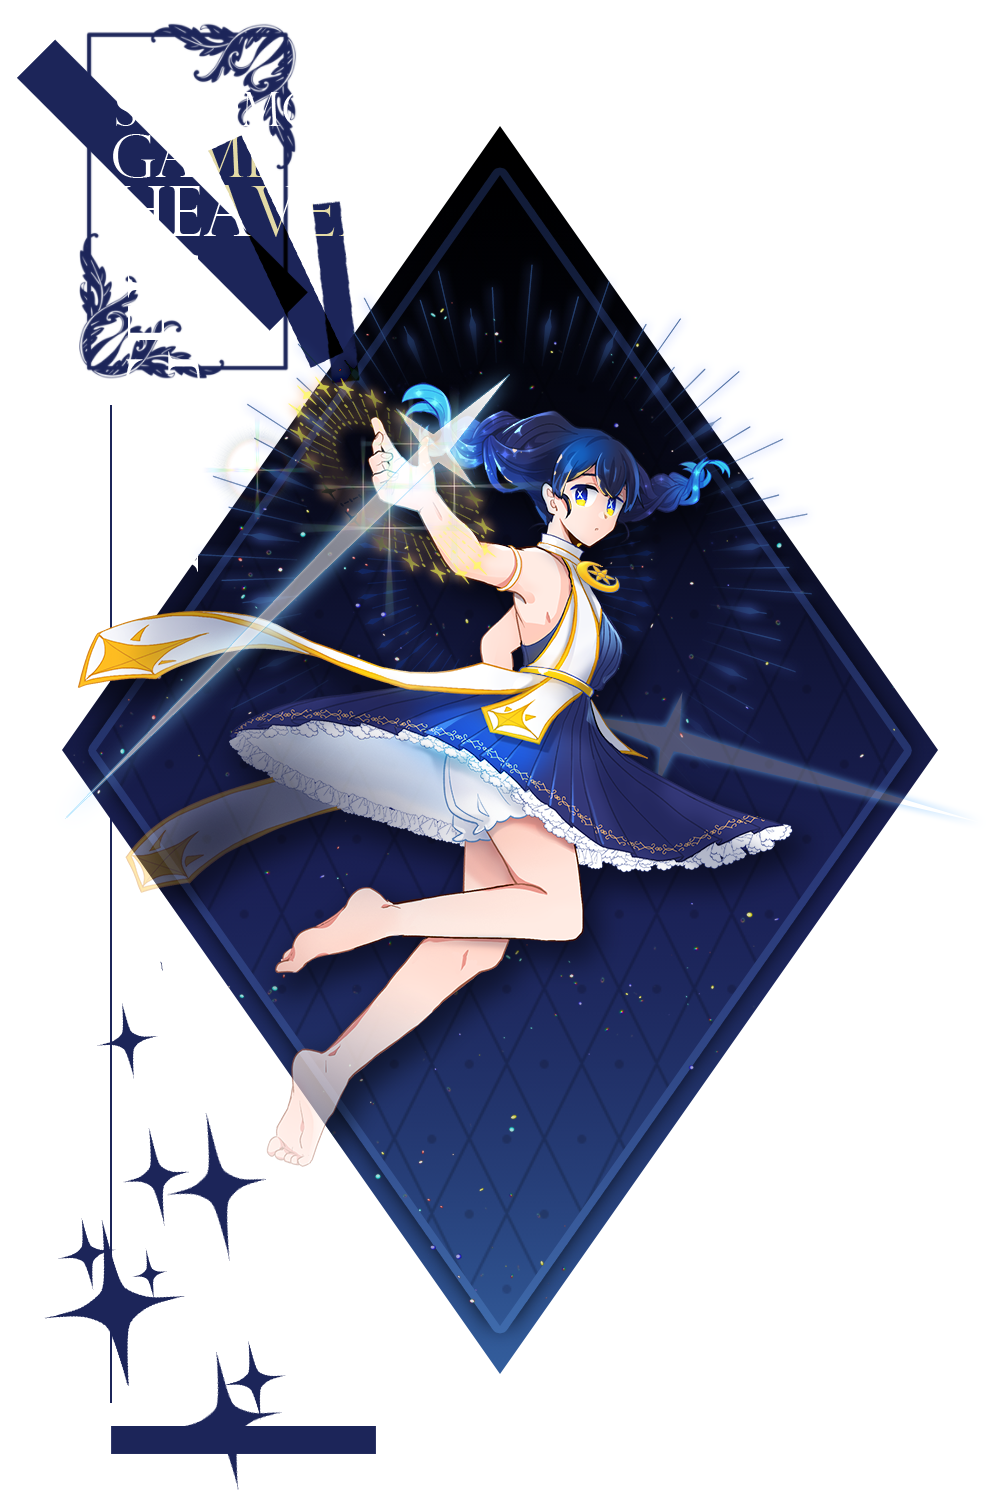
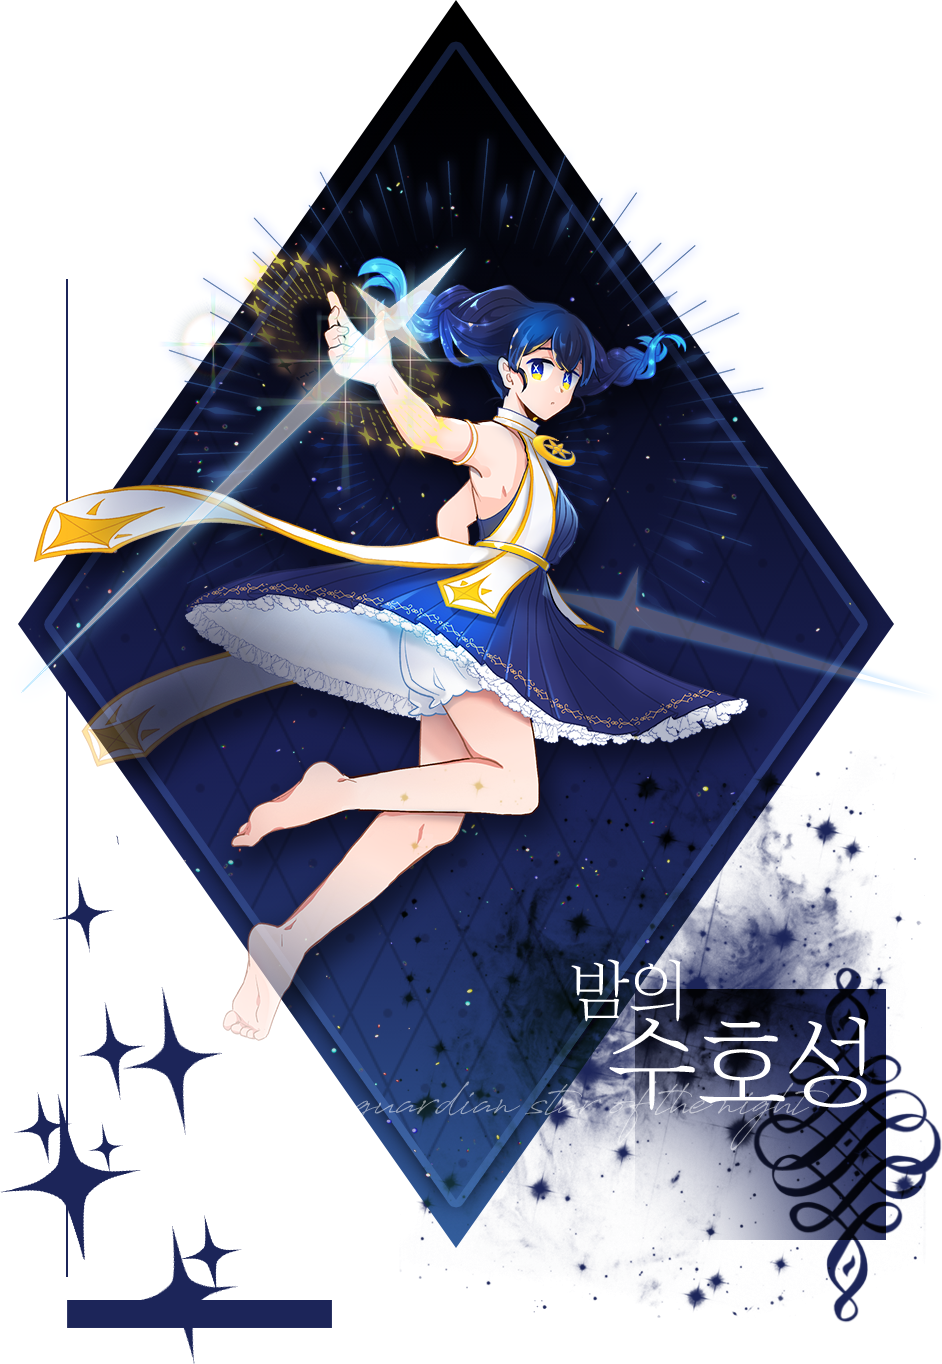
[Feat] 솔로몬 페이지 작업 완료

diff --git a/solomon/index.html b/solomon/index.html
@@ -1,0 +1,68 @@
+<!DOCTYPE html>
+<html lang="en">
+<head>
+    <meta charset="UTF-8">
+    <title>가막미르 10주년 합작 - 가막미르</title>
+    <link rel="stylesheet" href="../static/css/reset.css">
+    <link rel="stylesheet" href="../static/css/layout.css">
+    <link rel="stylesheet" href="../static/css/contents.css">
+    <script
+            src="https://code.jquery.com/jquery-3.7.1.slim.js"
+            integrity="sha256-UgvvN8vBkgO0luPSUl2s8TIlOSYRoGFAX4jlCIm9Adc="
+            crossorigin="anonymous"></script>
+    <script src="https://cdnjs.cloudflare.com/ajax/libs/gsap/3.12.2/gsap.min.js"></script>
+    <script src="https://cdnjs.cloudflare.com/ajax/libs/gsap/3.11.3/ScrollTrigger.min.js"></script>
+    <script src="../static/lib/fullpage.js/vendors/easings.js"></script>
+    <script src="../static/js/bg.js"></script>
+    <script src="../static/js/common.js"></script>
+</head>
+<body>
+<div id="container" class="solomon">
+    <div class="btnArea">
+        <button type="button" class="btn back" onclick="pageBack();"></button>
+        <button type="button" class="btn top" onclick="goTop();"></button>
+    </div>
+    <div class="bgArea">
+        <div class="overlay"></div>
+        <div class="layerWrap">
+        </div>
+    </div>
+    <main>
+        <h1>솔로몬의 천국</h1>
+        <div id="imageList">
+            <section>
+                <div class="character" id="evening">
+                    <div class="main"><img src="../static/images/evening/main.png" alt=""></div>
+                    <div class="name"><img src="../static/images/evening/name.png" alt=""></div>
+                    <div class="title"><img src="../static/images/evening/title.png" alt=""></div>
+                </div>
+            </section>
+        </div>
+    </main>
+</div>
+<script>
+    gsap.registerPlugin(ScrollTrigger);
+    gsap.to('.character', {
+        scrollTrigger:{
+            trigger:'#evening',
+            start: "0% 50%",//시작 지점
+            end: "100% 50%",//끝 지점
+            scrub: 1,//부드러운 스크러빙
+            onEnter: function () {
+                $("#evening").addClass("active");
+            },
+            onEnterBack: function () {
+                $("#evening").addClass("active");
+            },
+            onLeave: function () {
+                $("#evening").removeClass("active");
+            },
+            onLeaveBack: function () {
+                $("#evening").removeClass("active");
+            }
+        },
+        duration: 1
+    })
+</script>
+</body>
+</html>

diff --git a/static/css/contents.css b/static/css/contents.css
@@ -18,6 +18,7 @@
 }
 html, body {
   font-family: "Pretendard", Arial, sans-serif;
+  overflow-x: hidden;
 }
 
 #container.gamak {
@@ -96,6 +97,69 @@ html, body {
 }
 #container.gamak section .character#gaya.active .title {
   transition-delay: 0.8s;
+}
+
+#container.solomon {
+  color: #fff;
+}
+#container.solomon h1 {
+  font-size: 400px;
+  font-family: "Chosunilbo_myungjo", Arial, sans-serif;
+  position: absolute;
+  top: -200px;
+  left: 50%;
+  transform: translateX(-50%);
+  opacity: 0;
+  letter-spacing: -0.025em;
+  white-space: nowrap;
+  animation: h1-ani1 2s 0.2s forwards cubic-bezier(0.65, 0.05, 0.36, 1);
+}
+@keyframes h1-ani1 {
+  0% {
+    opacity: 0;
+    letter-spacing: -0.5em;
+  }
+  100% {
+    opacity: 0.05;
+    margin-top: 0;
+    letter-spacing: -0.025em;
+  }
+}
+#container.solomon section {
+  padding: 160px 30px;
+}
+#container.solomon section .character {
+  max-width: 1200px;
+  transition: all 1.5s;
+  opacity: 0;
+  transform: translateY(-100px);
+}
+#container.solomon section .character .name, #container.solomon section .character .title {
+  opacity: 0;
+  margin-top: -50px;
+  transition: all 0.75s;
+}
+#container.solomon section .character.active {
+  opacity: 1;
+  transform: translateY(0);
+}
+#container.solomon section .character.active .name, #container.solomon section .character.active .title {
+  margin-top: 0;
+  opacity: 1;
+}
+#container.solomon section .character.active .name {
+  transition-delay: 0.3s;
+}
+#container.solomon section .character#evening {
+  margin-top: 100px;
+}
+#container.solomon section .character#evening .name {
+  top: 50px;
+  right: 0;
+}
+#container.solomon section .character#evening .title {
+  top: -130px;
+  left: 0;
 }
 
 /*# sourceMappingURL=contents.css.map */

diff --git a/static/css/contents.scss b/static/css/contents.scss
@@ -2,6 +2,7 @@
 
 html, body {
   font-family: $Pretendard;
+  overflow-x: hidden;
 }
 
 #container.gamak {
@@ -85,6 +86,69 @@ html, body {
           .title {
             transition-delay: 0.8s;
           }
+        }
+      }
+    }
+  }
+}
+
+#container.solomon {
+  color: #fff;
+  h1 {
+    font-size: 400px;
+    font-family: $chosun;
+    position: absolute;
+    top: -200px;
+    left: 50%;
+    transform: translateX(-50%);
+    opacity: 0;
+    letter-spacing: -0.025em;
+    white-space: nowrap;
+    animation: h1-ani1 2s 0.2s forwards cubic-bezier(0.65, 0.05, 0.36, 1) ;
+  }
+  @keyframes h1-ani1 {
+    0% {
+      opacity: 0;
+      letter-spacing: -0.5em;
+    }
+    100% {
+      opacity: 0.05;
+      margin-top: 0;
+      letter-spacing: -0.025em;
+    }
+  }
+  section {
+    padding: 160px 30px;
+    .character {
+      max-width: 1200px;
+      transition: all 1.5s;
+      opacity: 0;
+      transform: translateY(-100px);
+      .name, .title {
+        opacity: 0;
+        margin-top: -50px;
+        transition: all 0.75s;
+      }
+      &.active {
+        opacity: 1;
+        transform: translateY(0);
+        .name, .title {
+          margin-top: 0;
+          opacity: 1;
+        }
+        .name {
+          transition-delay: 0.3s;
+        }
+      }
+      &#evening {
+        margin-top: 100px;
+        .name {
+          top: 50px;
+          right: 0;
+        }
+        .title {
+          top: -130px;
+          left: 0;
         }
       }
     }

diff --git a/index.html b/index.html
@@ -41,7 +41,7 @@
                 </a>
             </li>
             <li class="solomon">
-                <a href="">
+                <a href="solomon/">
                     <div class="imgBox">
                         <strong class="title">
                             <img src="static/images/world_text2.png" alt="솔로몬의 천국">

diff --git a/static/css/layout.scss b/static/css/layout.scss
@@ -1,5 +1,6 @@
 @import "mixin";
 #container {
+  position: relative;
   background: #101010;
   overflow: hidden;
   &.mainIndex {

diff --git a/static/css/layout.css b/static/css/layout.css
@@ -17,6 +17,7 @@
   font-style: normal;
 }
 #container {
+  position: relative;
   background: #101010;
   overflow: hidden;
 }
